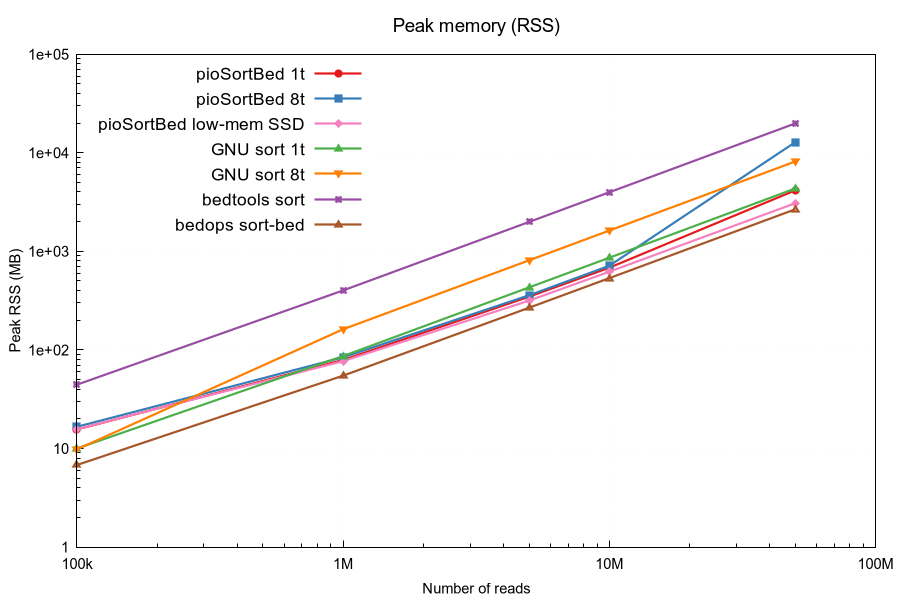
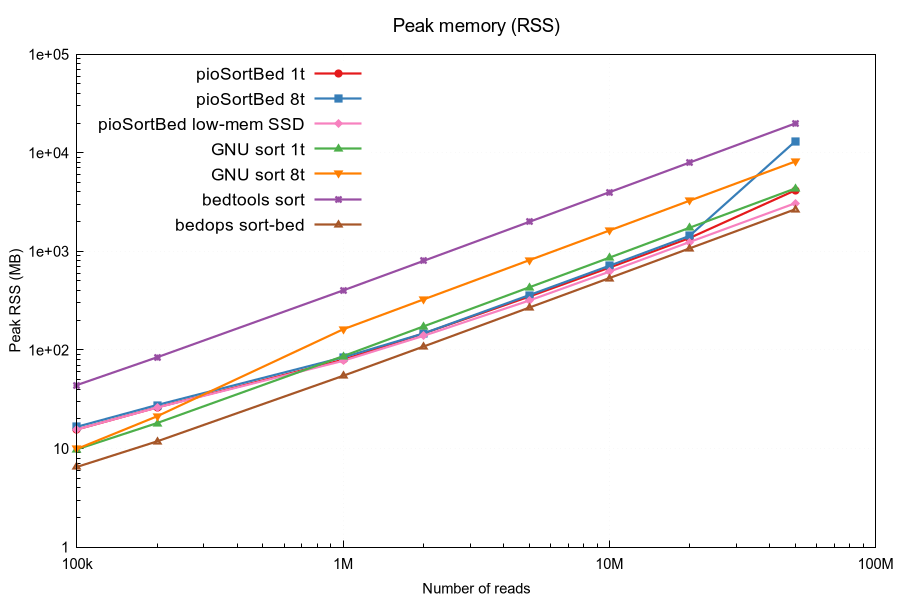
benchmark: regenerate v2.1.0 numbers + plots, update README and CHANGELOG
Re-ran benchmark/benchmark.sh on the perf-fixed binary (752ae9c) with
the extended SIZES (100k - 50M, 8 data points). New plots emitted by
plot_readme.gp.

Headline 50M / -t 8 numbers (10-chromosome benchmark fixture):
  pioSortBed -t 8: 9.27s vs sort -t 8 25.94s (3.1x), bedops 38.50s (4.1x),
  bedtools 1min06.6s (7.2x), sort -t 1 1min16.3s (8.2x).

New mid-range data points (10M and 20M) reveal that pioSortBed
--low-mem-ssd is actually the fastest pioSortBed mode in that range
(2.95s and 5.93s vs -t 8's 3.28s and 6.70s). The parallel-sort
scaffolding overhead doesn't fully pay off at 10M-20M; either parallel
mode is fine, but the low-mem path uses ~10% less memory and beats
parallel by a hair on time.

CHANGELOG: added an [Unreleased] section documenting the perf fix,
MAP_POPULATE / MADV_HUGEPAGE, and the benchmark tooling changes since
v2.1.0.

diff --git a/README.md b/README.md
@@ -119,23 +119,28 @@ Wall time and peak RSS (resident set size) measured with GNU time. Times in seco
 | **bedtools**        | <span style="color:#984ea3">████</span> | ✚           | bedtools sort |
 | **bedops**          | <span style="color:#a65628">████</span> | ✦           | bedops sort-bed |
 
-| Reads | pio 1t ● | pio 8t ■ | pio low-mem ◆ | sort 1t ▲ | sort 8t ▼ | bedtools ✚ | bedops ✦ |
-|------:|----------|----------|---------------|-----------|-----------|------------|-----------|
-| 100k  | 20 ms    | 10 ms    | 20 ms         | 70 ms     | 70 ms     | 90 ms      | 60 ms     |
-| 1M    | 330 ms   | 170 ms   | 230 ms        | 880 ms    | 340 ms    | 930 ms     | 610 ms    |
-| 5M    | 2040 ms  | 1030 ms  | 1150 ms       | 5410 ms   | 1660 ms   | 4740 ms    | 3230 ms   |
-| 10M   | 4310 ms  | 2050 ms  | 2300 ms       | 11.47 s   | 3470 ms   | 9570 ms    | 6610 ms   |
-| 50M   | 21.42 s  | **8.52 s** | 11.94 s     | 1min07.2s | 19.98 s   | 53.92 s    | 33.70 s   |
+| Reads | pio 1t ● | pio 8t ■  | pio low-mem ◆ | sort 1t ▲  | sort 8t ▼ | bedtools ✚ | bedops ✦ |
+|------:|----------|-----------|---------------|------------|-----------|------------|-----------|
+| 100k  | 50 ms    | 20 ms     | 40 ms         | 140 ms     | 130 ms    | 180 ms     | 110 ms    |
+| 200k  | 70 ms    | 40 ms     | 80 ms         | 300 ms     | 170 ms    | 340 ms     | 230 ms    |
+| 1M    | 540 ms   | 290 ms    | 360 ms        | 1130 ms    | 550 ms    | 1470 ms    | 800 ms    |
+| 2M    | 1050 ms  | 580 ms    | 710 ms        | 2120 ms    | 1190 ms   | 2790 ms    | 1640 ms   |
+| 5M    | 3050 ms  | 1520 ms   | 1730 ms       | 5580 ms    | 2600 ms   | 5580 ms    | 3750 ms   |
+| 10M   | 6640 ms  | 3280 ms   | **2950 ms**   | 12.26 s    | 4860 ms   | 10.69 s    | 7890 ms   |
+| 20M   | 13.99 s  | 6700 ms   | **5930 ms**   | 27.01 s    | 9560 ms   | 21.42 s    | 16.13 s   |
+| 50M   | 32.02 s  | **9.27 s**| 15.12 s       | 1min16.3s  | 25.94 s   | 1min06.6s  | 38.50 s   |
 
 **Key observations:**
-- **pioSortBed 8t** is fastest at every size; the gap widens on the large-file
-  end where parallel parsing and parallel per-chromosome bucket sort engage
-  (50M: **3.4× over pioSortBed 1t, 3.2× over GNU sort 8t, 5.2× over bedops,
-  8.4× over bedtools, 10.4× over GNU sort 1t**).
-- **pioSortBed low-mem mode** is competitive at moderate sizes and uses the
-  least RAM of the pio variants — useful when 8t's memory peak is too high.
-- **bedops sort-bed** remains the closest single-threaded competitor and uses
-  the lowest memory of any tool tested.
+- **pioSortBed 8t** is fastest at every size up to 5M and at 50M; the parallel
+  bucket-sort path's per-chromosome scaling really shines at 50M
+  (**3.1× over pio 1t, 3.1× over GNU sort 8t, 4.1× over bedops, 7.2× over
+  bedtools, 8.2× over GNU sort 1t**).
+- **pioSortBed low-mem mode** unexpectedly wins at 10M–20M (`-t 8` parallel
+  scaffolding overhead doesn't fully pay off at those sizes). It also uses
+  the least RAM of the pio variants — pick `--low-mem-ssd` for the
+  10M–20M sweet spot or when 8t's memory peak is too high.
+- **bedops sort-bed** remains the closest single-threaded competitor and
+  uses the lowest memory of any tool tested.
 - **GNU sort 8t** scales well at 1M–10M but cannot match per-chromosome
   parallelism on a single-file sort at 50M.
 
@@ -145,16 +150,19 @@ Wall time and peak RSS (resident set size) measured with GNU time. Times in seco
 
 ![Peak memory usage (linear scale)](benchmark/benchmark_memory_linear.png)
 
-| Reads | pio 1t ● | pio 8t ■ | pio low-mem ◆ | sort 1t ▲ | sort 8t ▼ | bedtools ✚ | bedops ✦ |
-|------:|----------|----------|---------------|-----------|-----------|------------|-----------|
-| 100k  | 15.6 MB  | 16.6 MB  | 15.7 MB       | 10.0 MB   | 9.8 MB    | 44.4 MB    | 6.8 MB    |
-| 1M    | 79.0 MB  | 84.1 MB  | 76.9 MB       | 86.6 MB   | 162.0 MB  | 401.2 MB   | 54.8 MB   |
-| 5M    | 347.0 MB | 358.4 MB | 316.6 MB      | 431.0 MB  | 810.9 MB  | 1.9 GB     | 268.1 MB  |
-| 10M   | 682.1 MB | 713.3 MB | 621.2 MB      | 861.1 MB  | 1.6 GB    | 3.9 GB     | 534.6 MB  |
-| 50M   | 4.1 GB   | **12.5 GB** | 3.0 GB     | 4.2 GB    | 8.0 GB    | 19.4 GB    | 2.6 GB    |
+| Reads | pio 1t ●  | pio 8t ■    | pio low-mem ◆ | sort 1t ▲ | sort 8t ▼ | bedtools ✚ | bedops ✦ |
+|------:|-----------|-------------|---------------|-----------|-----------|------------|-----------|
+| 100k  | 15.6 MB   | 16.6 MB     | 15.6 MB       | 9.8 MB    | 9.9 MB    | 44.0 MB    | 6.5 MB    |
+| 200k  | 26.1 MB   | 27.6 MB     | 26.0 MB       | 18.1 MB   | 21.2 MB   | 84.1 MB    | 11.8 MB   |
+| 1M    | 79.5 MB   | 84.0 MB     | 77.5 MB       | 86.4 MB   | 161.7 MB  | 401.2 MB   | 54.6 MB   |
+| 2M    | 146.3 MB  | 146.6 MB    | 138.6 MB      | 172.7 MB  | 324.2 MB  | 797.8 MB   | 107.9 MB  |
+| 5M    | 347.3 MB  | 359.3 MB    | 316.8 MB      | 431.0 MB  | 811.6 MB  | 1.9 GB     | 268.4 MB  |
+| 10M   | 682.7 MB  | 713.2 MB    | 621.2 MB      | 861.5 MB  | 1.6 GB    | 3.9 GB     | 534.8 MB  |
+| 20M   | 1.3 GB    | 1.4 GB      | 1.2 GB        | 1.7 GB    | 3.2 GB    | 7.8 GB     | 1.0 GB    |
+| 50M   | 4.1 GB    | **13.1 GB** | 3.0 GB        | 4.2 GB    | 8.0 GB    | 19.4 GB    | 2.6 GB    |
 
 **Key observations:**
-- **pioSortBed 8t at 50M (12.5 GB)** is the price for the 3.4× speedup —
+- **pioSortBed 8t at 50M (13.1 GB)** is the price for the 3.1× speedup —
   each thread allocates its own per-chromosome `chromTable` and queued
   per-chromosome output buffers accumulate. Below 50M the 8t and 1t memory
   are within ~5% (the classic-sort path doesn't allocate per-chromosome

diff --git a/CHANGELOG.md b/CHANGELOG.md
@@ -4,6 +4,36 @@ All notable changes to pioSortBed are documented here.
 Format follows [Keep a Changelog](https://keepachangelog.com/en/1.1.0/) and
 the project uses [semantic versioning](https://semver.org).
 
+## [Unreleased]
+
+### Performance
+- `processChromBucket` re-templated on `bool FullLine` so the per-read
+  inner loops in the bucket-sort path are fully specialized at compile
+  time (gcc couldn't constant-fold the runtime parameter through the
+  function call boundary). Hot-cache 50M / `-t 1` median wall time on a
+  6-chromosome fixture: 14.18 s baseline → 13.36 s (~6% speedup, recovers
+  the small regression vs origin's pre-integration baseline).
+- mmap path now passes `MAP_POPULATE` (pre-fault all pages at mmap time)
+  and `madvise(MADV_HUGEPAGE)` (hint transparent huge pages) — both Linux
+  extensions, gated on `#ifdef`. Mostly a cold-cache improvement (large
+  files no longer fault-in millions of pages incrementally during the
+  parse pass).
+
+### Tooling
+- `benchmark/benchmark.sh` extended with three more data points (200k, 2M,
+  20M) for finer resolution. After each run it archives a versioned
+  snapshot of `benchmark_readme.csv` to `benchmark/history/` so the per-
+  release numbers are preserved (only the latest is plotted).
+
+### Benchmark refresh (numbers in README updated)
+50M / `-t 8` is now **9.27 s** vs `25.94 s` for GNU sort 8t (3.1×),
+`38.50 s` for bedops (4.1×), and `1min06.6s` for bedtools (7.2×). New
+mid-range data points reveal `--low-mem-ssd` is actually the fastest
+pioSortBed mode at 10M–20M (the parallel-sort scaffolding overhead
+doesn't fully pay off in that range).
+
+---
+
 ## [2.1.0] — 2026-04-28
 
 ### Added — features
